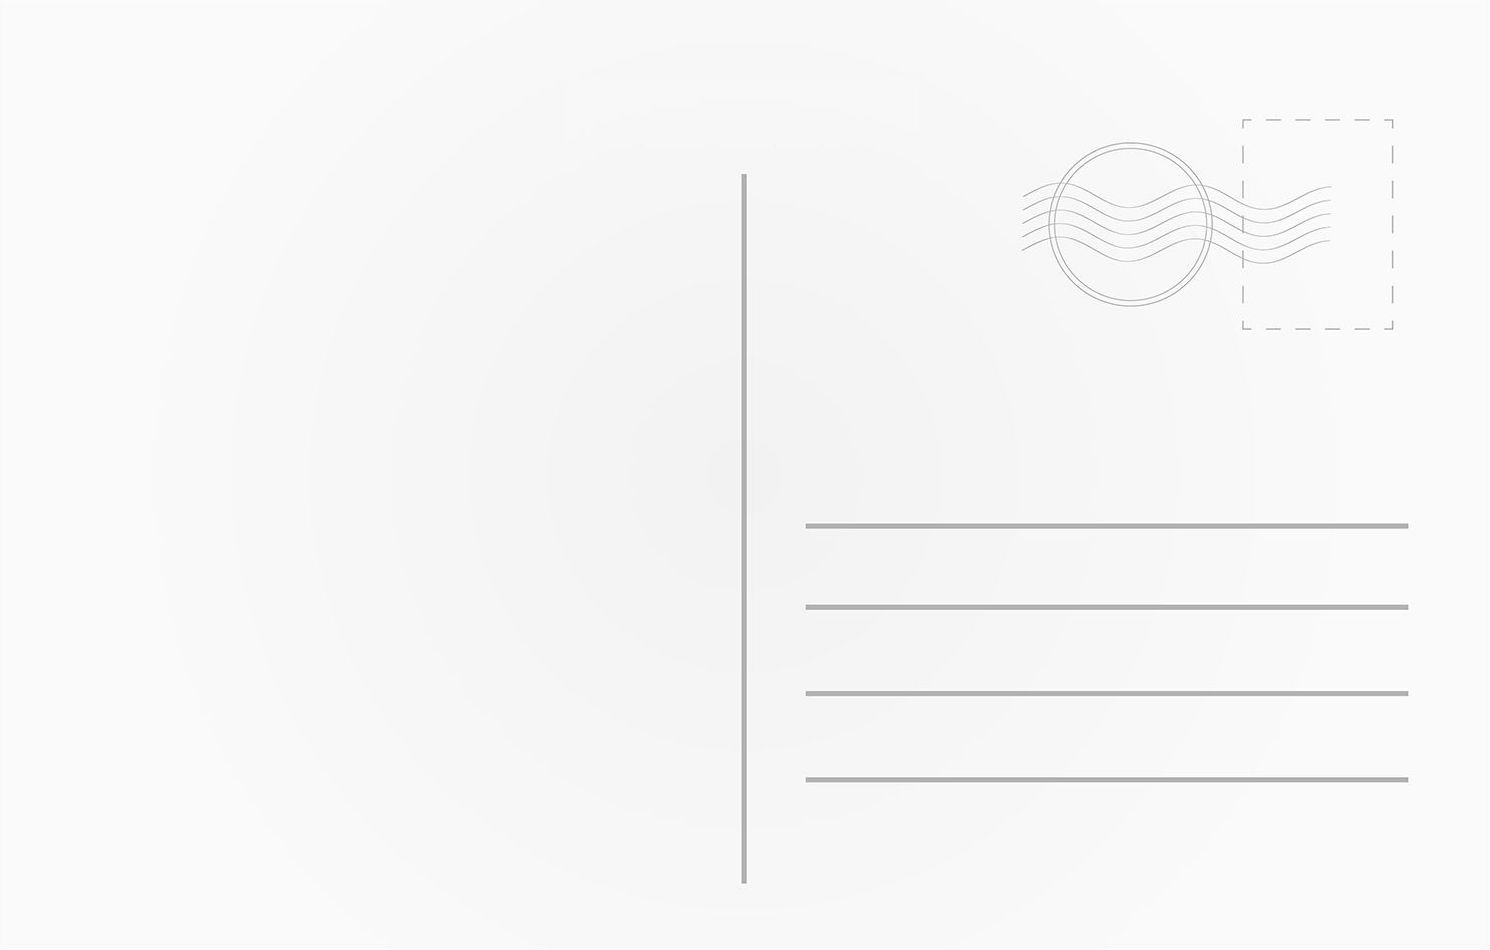
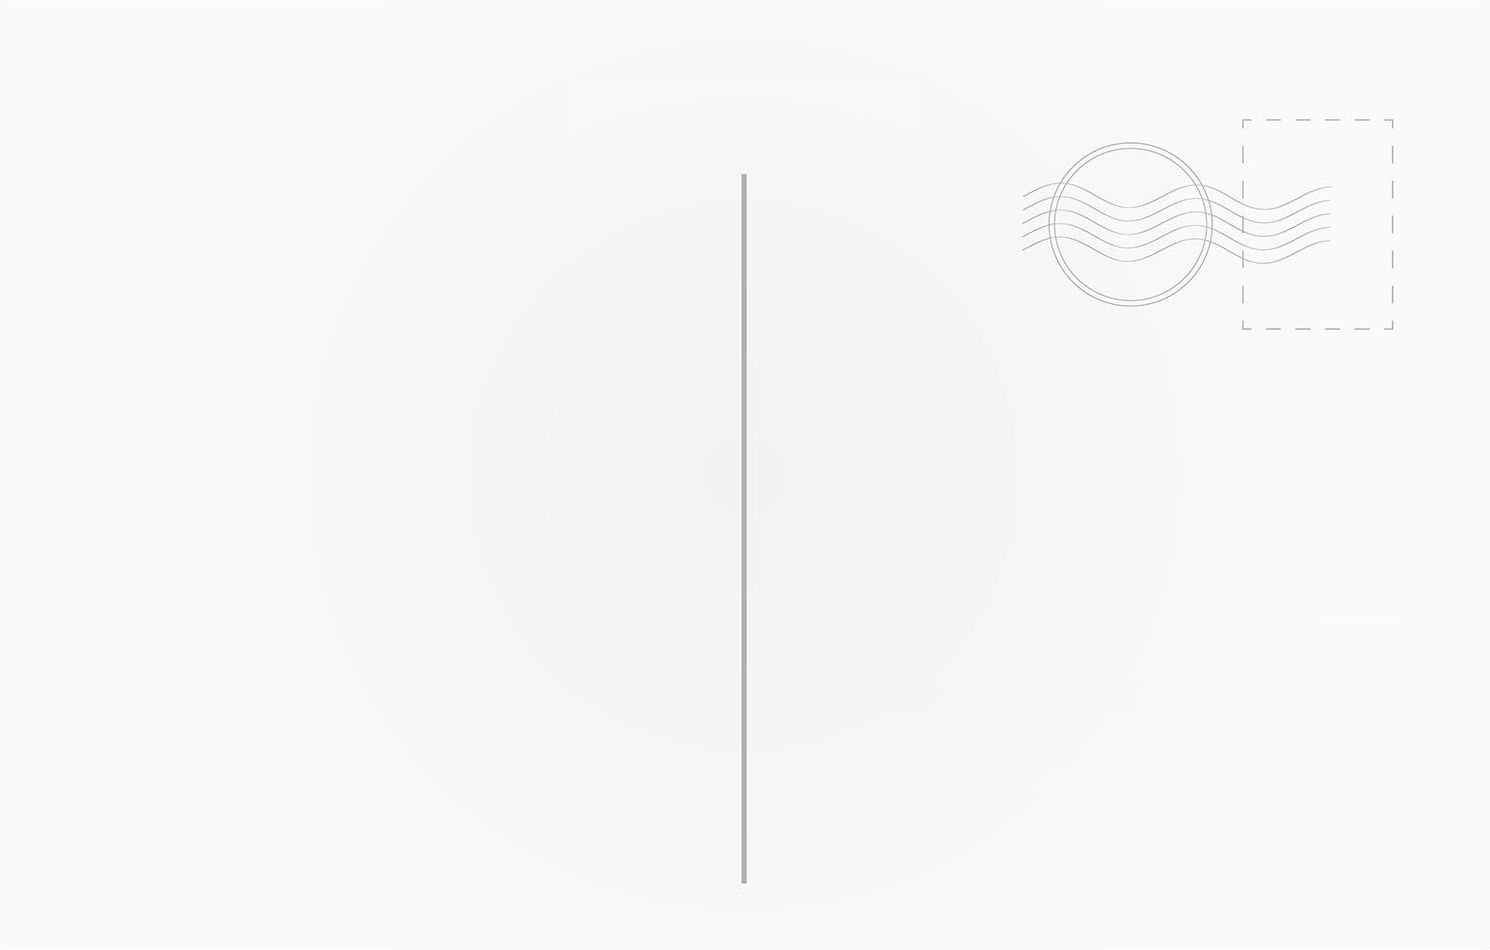
improve text

diff --git a/index.html b/index.html
@@ -17,24 +17,35 @@
                 <img src="">
                 <div id="back-text">
                     <p>
-                        ✌ now that i've tested positive for covid<br/> I sleep much better and my brain is starting to slowly wake up (after two years of continuous shutting down). i thought to reconnect with people from many walks of my life and broadcast some of the most interesting of what i've stumbled upon in past weeks.
+                        ✌ now that i've finally tested positive for covid I sleep much better and my brain is starting to slowly wake up (after two years of shutting down more and more).
+                        i thought to reconnect with people from many walks of my life and tell you about some of the most interesting things i've stumbled upon in past weeks.
                     </p>
                     <p>
-                        want to be happy and enjoy life's pleasures? first suffer: podcast with <a href="https://youtu.be/Unv7eMR0QyE" target="_blank" rel="noopener noreferrer">Anna Lembke</a>
+                        want to be happy and enjoy life's pleasures? first suffer: podcast with <a href="https://youtu.be/Unv7eMR0QyE" target="_blank" rel="noopener noreferrer">Anna Lembke</a>.
+                        i think it lays perfect foundations for all the current trends like ice baths, wim hof breathing or fasting.
+
                     </p>
                     <p>
-                        the ground under visual arts is shaking: meet <a href="https://www.youtube.com/watch?v=SVcsDDABEkM" target="_blank" rel="noopener noreferrer">DALL-E</a>, Imagen and MidJourney
+                        gut bacteria make for you 50% of your micronutrients. things will slowly fall apart if you don't feed them well for too long. eat many
+                        <a href="https://www.youtube.com/watch?v=vKxomLM7SVc" target="_blank" rel="noopener noreferrer">veggies</a> and/or 
+                        <a href="https://www.youtube.com/watch?v=m_6ZfxPVFYM">prebiotics</a> to stay good and sharp.
                     </p>
                     <p>
-                        gut bacteria make for you 50% of your micronutrients. things will slowly fall apart if you don't treat them well for too long. eat many
-                        <a href="https://www.youtube.com/watch?v=vKxomLM7SVc" target="_blank" rel="noopener noreferrer">veggies</a> and/or <a href="https://www.youtube.com/watch?v=m_6ZfxPVFYM">prebiotics</a> to stay good and sharp.
+                        the ground under visual arts is shaking: meet
+                        <a href="https://www.youtube.com/watch?v=SVcsDDABEkM" target="_blank" rel="noopener noreferrer">DALL-E</a>, Imagen and MidJourney.
+                        <br/>they'll change <i>why</i> people paint.
                     </p>
                     <p>
-                        i've also been diving into music deeper and <a href="https://soundcloud.com/real-art-vandelay/noee-mix-37after-the-ocean?utm_source=clipboard&utm_medium=text&utm_campaign=social_sharing" target="_blank" rel="noopener noreferrer">deeper</a>
+                        i've also been diving more into the art of <a 
+                            href="https://soundcloud.com/real-art-vandelay/noee-mix-37after-the-ocean?utm_source=clipboard&utm_medium=text&utm_campaign=social_sharing" 
+                            target="_blank" rel="noopener noreferrer">music selection</a>. i'm enjoying it so much.
                     </p>
                     <p>
                         cheers from Berlin, Marko
                     </p>
+                    <!-- <p>
+                        top quote: we don't do music in order to reach the end of it. if that was the case then the fastest musicians would be the best. when we play music, music itself is the point. (Alan Watts)
+                    </p> -->
                 </div>
             </div>
         </div>

diff --git a/src/index.css b/src/index.css
@@ -71,15 +71,15 @@ body{
   top: 0;
   border-radius: var(--card-border-radius);
 
-  padding: 3rem 2rem;
-  width: 340px
+  padding: 2.2rem 1.99rem;
+  width: 318px
 }
 
 p{
   font-family: 'Lora';
   font-size: 1.1rem;
   margin: 0;
-  text-indent: 1rem;
+  text-indent: 1.45rem;
 }
 
 p a{
@@ -88,21 +88,32 @@ p a{
 
 
 #back-text p:nth-child(1){
-  width: 340px
+  width: 335px
 }
 
-#back-text p:nth-child(5){
+#back-text p:nth-child(4){
   text-indent: 0;
 
   position: absolute;
-  right: -360px;
-  bottom: 201px;
   width: 340px;
+  right: -377px;
+  bottom: 170px;
 }
+#back-text p:nth-child(5){
+  position: absolute;
+  width: 330px;
+  right: -368px;
+  bottom: 102px;
+}
+
 #back-text p:nth-child(6){
   position: absolute;
-  right: -334px;
-  bottom: 145px;
+  right: -373.5px;
+  bottom: 52px;
+  width: 230px;
+  box-sizing: border-box;
+  padding: 0.22rem;
+  padding-bottom: 0.25rem;
 }
 
 
